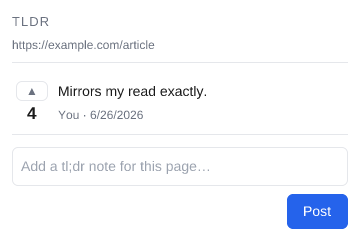
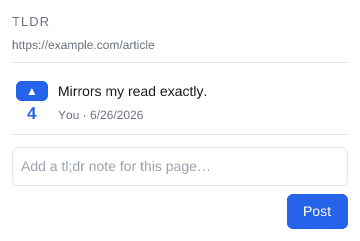
Upvoting: make the voted state a filled button (clear "you voted" + unvote) (#22)
Address that the UI didn't clearly show you'd already voted (and that clicking again
removes, not adds, a vote). Voted-by-me is now a FILLED accent button (white ▲) with an
accent count — a strong, conventional "toggled-on" signal, and a non-colour cue (filled
vs outline). Clicking a voted control still removes the vote (its title says "Remove
your upvote", aria-pressed=true, accessible name includes the count); you can unvote but
can't stack a second vote (server-idempotent, leaf 9.7).

Implementation note: the idle/voted looks are mutually-exclusive state classes
(vote-idle / vote-voted, vote-count-idle / vote-count-voted), NOT a `.vote.voted`
override of `.vote`. The dom-snapshot renderer folds matched CSS rules in an order where
a same-element same-property override doesn't win, so the previous `.vote.voted` accent
never actually rendered in the goldens; exclusive classes render correctly in both the
snapshot and real Chrome.

- New behavior leaf 9.11: a comment you upvoted in a previous session (persisted in
  chrome.storage.local) shows voted on load, and clicking it removes the vote (a DELETE,
  never a second cast).
- §9 prose + 9.2 case updated; only the 9.2 (voted) golden changed — the un-voted images
  are unchanged.

Refs #22

Claude-Session: https://claude.ai/code/session_01WcpmoNejUWjFT4RPFp82br

Changed region(s): [[0.0306, 0.3195, 0.1528, 0.4938]]

diff --git a/client/src/sidepanel.css b/client/src/sidepanel.css
@@ -40,10 +40,18 @@ body {
 .comment.voteable { display: flex; align-items: flex-start; gap: 10px; }
 .comment-main { display: flex; flex-direction: column; flex-grow: 1; min-width: 0; }
 .vote-rail { display: flex; flex-direction: column; align-items: center; gap: 3px; }
-.vote { display: flex; align-items: center; justify-content: center; background: transparent; border: 1px solid var(--border); border-radius: 6px; padding: 3px 9px; font: inherit; font-size: 12px; line-height: 1; color: var(--muted); cursor: pointer; }
-.vote.voted { border-color: var(--accent); color: var(--accent); }
-.vote-count { font-size: 17px; font-weight: 700; line-height: 1.1; font-variant-numeric: tabular-nums; color: var(--fg); }
-.vote-count.voted { color: var(--accent); }
+/* Voted-by-me is a FILLED accent button (a toggled-on look — and a non-colour cue: filled vs outline),
+   so it's unmistakable you've already voted; clicking it removes the vote (see the title + aria-pressed).
+   The idle/voted looks are MUTUALLY EXCLUSIVE state classes (not a `.vote.voted` override of `.vote`),
+   so no rule overrides another on the same element+property — the snapshot renderer folds matched rules
+   in a fixed order in which a same-property override wouldn't win, so the distinct states must not rely
+   on override precedence. Base `.vote` therefore carries only the shared layout. */
+.vote { display: flex; align-items: center; justify-content: center; border-radius: 6px; padding: 3px 9px; font: inherit; font-size: 12px; line-height: 1; cursor: pointer; }
+.vote-idle { background: transparent; border: 1px solid var(--border); color: var(--muted); }
+.vote-voted { background: var(--accent); border: 1px solid var(--accent); color: #fff; }
+.vote-count { font-size: 17px; font-weight: 700; line-height: 1.1; font-variant-numeric: tabular-nums; }
+.vote-count-idle { color: var(--fg); }
+.vote-count-voted { color: var(--accent); }
 
 .composer { margin-top: 12px; }
 .body { width: 100%; resize: vertical; font: inherit; padding: 8px; border: 1px solid var(--border); border-radius: 6px; background: transparent; color: inherit; }

diff --git a/dev/requirements/requirements.md b/dev/requirements/requirements.md
@@ -567,9 +567,10 @@ look is a `dom` image; the optimistic toggle + rollback are `behavior` gestures;
 `logic` leaf; and the server enforcement (attributed, idempotent, no identity leak) sits alongside as
 `server` leaves.
 
-> The affordance distinguishes voted from un-voted by **accent colour** on the button and the count (a
-> filled ▲ either way — the bundled snapshot font has no outline triangle, and colour is not the only
-> signal: the button's `aria-pressed` and its accessible name carry the state to assistive tech).
+> Voted-by-me is a **filled accent button** (vs a muted outline when un-voted) with an accent count —
+> unmistakably "you've already voted", and a non-colour cue (filled vs outline), not colour alone. You
+> can't stack a second vote: clicking a voted control **removes** your vote (its title says so and its
+> `aria-pressed`/accessible name carry the state to assistive tech).
 
 <table>
 <tr>
@@ -596,8 +597,8 @@ look is a `dom` image; the optimistic toggle + rollback are `behavior` gestures;
 </td>
 <td valign="top">
 
-`9.2` The same rail in the **voted-by-me** state — an **accent-coloured** button and count, the count
-including your vote.
+`9.2` The same rail in the **voted-by-me** state — a **filled accent** button and an accent count (the
+count including your vote), so it's clear you've already voted.
 
 </td>
 </tr>
@@ -727,6 +728,23 @@ the server's, like posting), while reads stay public.
 
 `9.10` The public read projection **returns `voteCount`** and **never leaks per-voter identity** — the
 count is shared, but who voted is not.
+
+</td>
+</tr>
+</table>
+
+<table>
+<tr>
+<td valign="top" width="340">
+
+🚩 _Behavior leaf — verified by `behavior/behavior.test.mjs` (a gesture a static snapshot can't show)._ <!-- req-gallery:9.11 -->
+
+</td>
+<td valign="top">
+
+`9.11` A comment you **already upvoted in a previous session** (from `chrome.storage.local`) shows as
+**voted on load**, and clicking it **removes your vote** (a `DELETE`, never a second cast) — you can
+**unvote**, but you can't stack a second vote.
 
 </td>
 </tr>